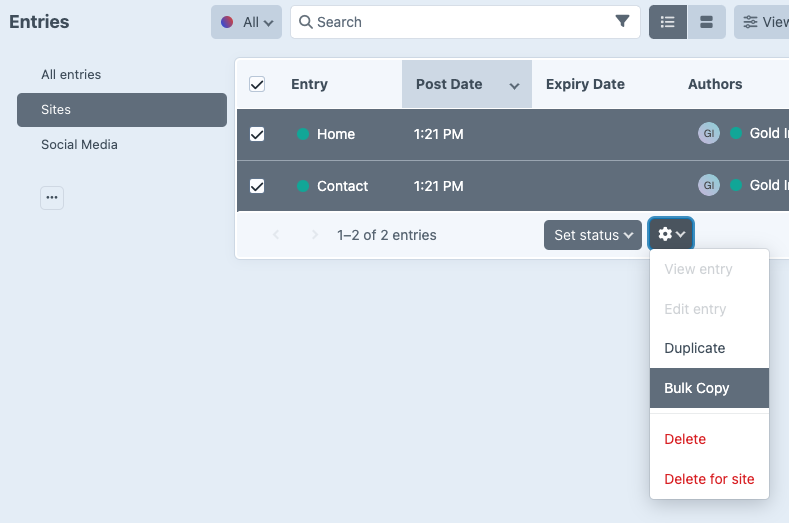
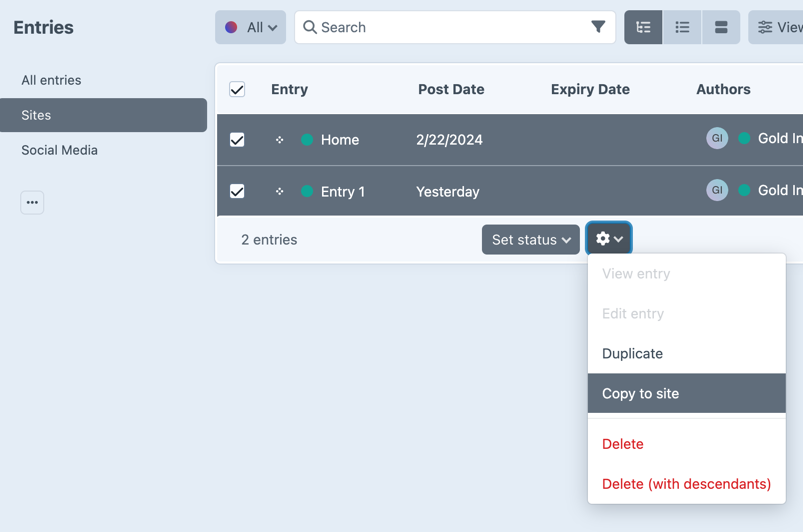
Change label and enable bulk copy for products

diff --git a/src/SiteCopy.php b/src/SiteCopy.php
@@ -9,6 +9,7 @@ namespace goldinteractive\sitecopy;
 use Craft;
 use craft\base\Element;
 use craft\base\Plugin;
+use craft\commerce\elements\Product;
 use craft\elements\Asset;
 use craft\elements\Category;
 use craft\elements\Entry;
@@ -65,6 +66,29 @@ class SiteCopy extends Plugin
                     }
                 }
             );
+
+            Event::on(
+                Asset::class,
+                Element::EVENT_REGISTER_ACTIONS,
+                function (RegisterElementActionsEvent $event) {
+                    $event->actions[] = new BulkCopy();
+                });
+
+            Event::on(
+                Product::class,
+                Element::EVENT_REGISTER_ACTIONS,
+                function (RegisterElementActionsEvent $event) {
+                    if (strpos($event->source, 'productType:') !== false) {
+                        $event->actions[] = new BulkCopy();
+                    }
+                });
+
+            Event::on(
+                Category::class,
+                Element::EVENT_REGISTER_ACTIONS,
+                function (RegisterElementActionsEvent $event) {
+                    $event->actions[] = new BulkCopy();
+                });
 
             Event::on(
                 Entry::class,

diff --git a/src/controllers/ApiController.php b/src/controllers/ApiController.php
@@ -3,6 +3,7 @@
 namespace goldinteractive\sitecopy\controllers;
 
 use Craft;
+use craft\elements\Entry;
 use craft\enums\PropagationMethod;
 use craft\events\ElementEvent;
 use craft\web\Controller;
@@ -30,7 +31,7 @@ class ApiController extends Controller
         $supportedSites = [];
 
         foreach ($elements as $element) {
-            if ($element->section->propagationMethod === PropagationMethod::None) {
+            if ($element instanceof Entry && $element->section?->propagationMethod === PropagationMethod::None) {
                 return $this->asJson([
                     'html'    => '',
                     'success' => false,
@@ -75,7 +76,7 @@ class ApiController extends Controller
             foreach ($elements as $element) {
                 $event = new ElementEvent([
                     'element' => $element,
-                    'isNew' => false,
+                    'isNew'   => false,
                 ]);
 
                 SiteCopy::getInstance()->sitecopy->syncElementContent($event, $sitecopySettings);

diff --git a/src/elements/actions/BulkCopy.php b/src/elements/actions/BulkCopy.php
@@ -13,7 +13,7 @@ class BulkCopy extends ElementAction
 {
     public static function displayName(): string
     {
-        return Craft::t('site-copy-x', 'Bulk copy');
+        return Craft::t('site-copy-x', 'Copy to site');
     }
 
     public function getTriggerHtml(): ?string
